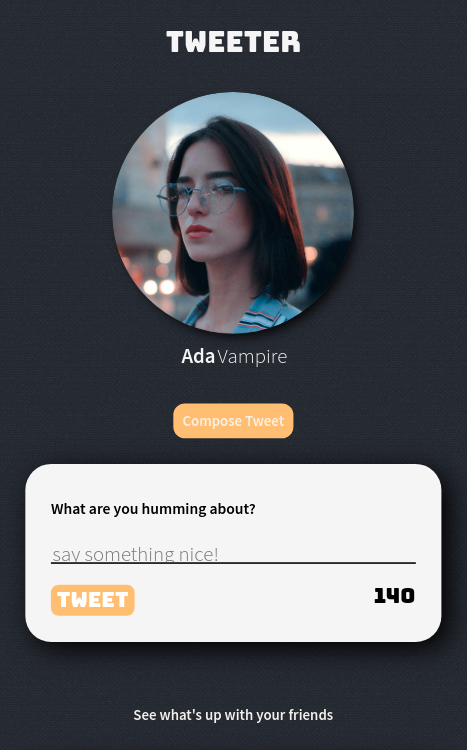
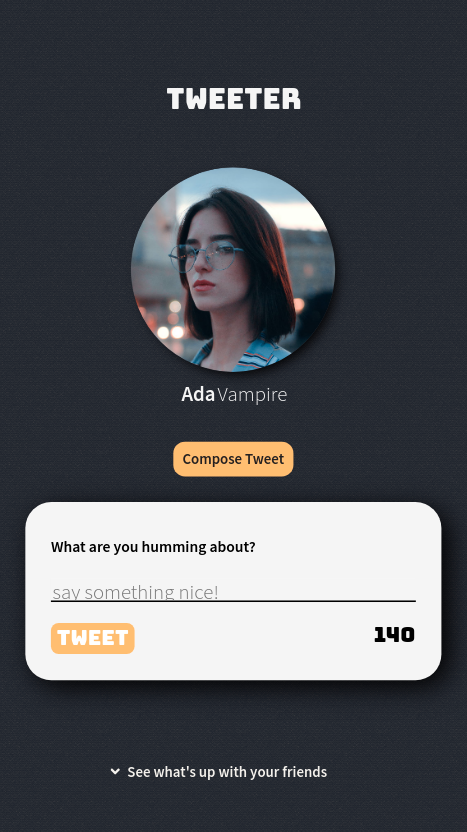
fix mobile scroll down ani animation

Changed region(s): [[0.03, 0.5213, 0.9593, 0.8893], [0.2398, 0.0307, 0.7794, 0.4907], [0.2698, 0.92, 0.7195, 0.9813]]

diff --git a/public/scripts/client-helper.js b/public/scripts/client-helper.js
@@ -203,15 +203,17 @@ const scrollUpButton = () => {
 //make the mobile h2 fadeout when user scrolling down
 const feedSubtitleHide = () => {
   if ($(this).scrollTop()) {
-    $(".new-tweet-feed-subtitle")
-      .css("visibility", "hidden")
-      .hide()
-      .fadeOut(600);
+    $(".new-tweet-feed-subtitle").fadeOut();
   } else {
-    $(".new-tweet-feed-subtitle")
-      .css("visibility", "visible")
-      .hide()
-      .fadeIn(600);
+    $(".new-tweet-feed-subtitle").fadeIn();
+  }
+};
+//hide main title in mobile when scroll up
+const mainTitleHide = () => {
+  if ($(this).scrollTop()) {
+    $(".logo").fadeOut();
+  } else {
+    $(".logo").fadeIn();
   }
 };
 

diff --git a/public/styles/nav.css b/public/styles/nav.css
@@ -51,6 +51,7 @@ nav {
 
 @media only screen and (max-width: 700px) {
   nav {
+    position: fixed;
     display: flex;
     background-color: transparent;
     background-image: none;
@@ -68,8 +69,8 @@ nav {
     width: 4em;
   }
   .top-nav .logo {
-    margin-top: 2em;
-    margin-left: 2em;
+    margin-top: 3em;
+    margin-left: 6em;
     font-size: 1.5em;
   }
   .fa-angle-double-down {

diff --git a/public/scripts/client.js b/public/scripts/client.js
@@ -30,6 +30,9 @@ $(document).ready(function () {
   if ($(window).width() < 701) {
     $(window).scroll(feedSubtitleHide);
   }
+  if ($(window).width() < 701) {
+    $(window).scroll(mainTitleHide);
+  }
 
   //load dummy tweets
   loadTweets(renderTweets);

diff --git a/public/styles/tweet-feed.css b/public/styles/tweet-feed.css
@@ -73,8 +73,10 @@
     font-size: 1.4em;
   }
   .new-tweet-feed-subtitle {
+    position: fixed;
     display: flex;
     justify-content: center;
+    margin-left: 6em;
   }
   .username {
     display: block;

diff --git a/public/styles/layout.css b/public/styles/layout.css
@@ -69,7 +69,7 @@ body {
 
 @media only screen and (max-width: 700px) {
   .main-content {
-    margin-top: 9em;
+    margin-top: 8em;
   }
   html {
     display: flex;

diff --git a/README.md b/README.md
@@ -38,13 +38,19 @@ New Tweet Generation
 ![New Tweet Generation](./screenshots/newTweet.png)
 
 Warning
-![Too Long](./screenshots/warningContentTooLong.gif)
-![No Content](./screenshots/warningNoContent.gif)
+
+- Over Character Limits
+  ![Too Long](./screenshots/warningContentTooLong.gif)
+- No Text
+  ![No Content](./screenshots/warningNoContent.gif)
 
 Toggle Action
 
 ![Toggle Action](./screenshots/toggleAction.gif)
 
+Scroll Up Action Mobile
+
+![Scroll Up Action](./screenshots/scrollupMobile.gif)
 Scroll Up Action
 
 ![Scroll Up Action](./screenshots/scrollupAction.gif)
